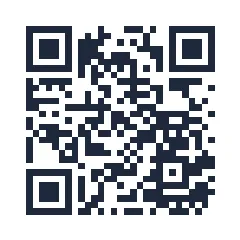
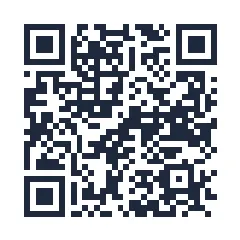
Add QR code for sample board, other final changes for release

diff --git a/components/BoardSettingsModal.vue b/components/BoardSettingsModal.vue
@@ -4,7 +4,7 @@
     boardId: string | string[]
     title: string,
     publicPerms: number,
-    refresh: () => void
+    refresh: () => Promise<void>
   }>()
 
   const titleEdit = ref("")
@@ -28,6 +28,7 @@
           publicPerms: publicPermsEdit.value
         }
       })
+      await props.refresh()
       isVisible.value = false
     } catch (e) {
       disableSubmit.value = false
@@ -71,6 +72,7 @@
               type="submit"
               label="Save Changes"
               icon="i-heroicons-check-16-solid"
+              :loading="disableSubmit"
               :ui="BUTTON_UI_OBJECT"
             />
           </div>

diff --git a/server/api/account/login/github.get.ts b/server/api/account/login/github.get.ts
@@ -1,6 +1,6 @@
 export default defineEventHandler((e) => {
-  console.log(`process env clientId ${process.env.NUXT_OAUTH_GITHUB_CLIENT_ID}`)
-  console.log(`cloudflare env clientId ${e.context.cloudflare.env.NUXT_OAUTH_GITHUB_CLIENT_ID}`)
+  // console.log(`process env clientId ${process.env.NUXT_OAUTH_GITHUB_CLIENT_ID}`)
+  // console.log(`cloudflare env clientId ${e.context.cloudflare.env.NUXT_OAUTH_GITHUB_CLIENT_ID}`)
   return defineOAuthGitHubEventHandler({
     onSuccess: async (e, {user}) => {
       await setUserSession(e, {

diff --git a/components/EditTaskModal.vue b/components/EditTaskModal.vue
@@ -3,7 +3,7 @@
   const props = defineProps<{
     title: string,
     description: string,
-    refresh: () => void
+    refresh: () => Promise<void>
   }>()
 
   const route = useRoute()

diff --git a/README.md b/README.md
@@ -8,9 +8,9 @@ Taskflow is a web app for keeping track of tasks, helping you to keep your team 
 
 ## Open the web app online!
 
-Web app coming online soon!
+**[https://taskflow-webapp.pages.dev/](https://taskflow-webapp.pages.dev/)**
 
-## Awesome tech used
+## Libraries and frameworks used
 
 Taskflow is made using Vue 3, Nuxt 3, Nuxt UI v2, Tailwind CSS v3, Chart.js (via vue-chartjs) and Drizzle ORM.
 
